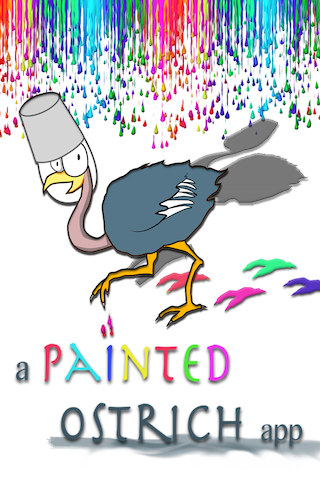
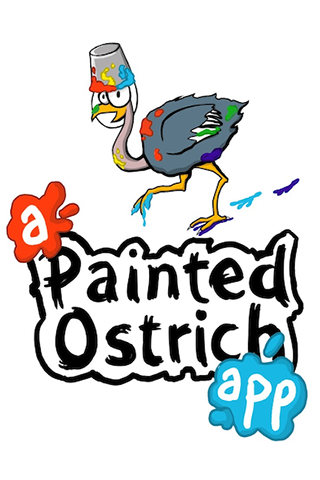
new splash screen.  ver 1.0.3 in store

diff --git a/MappMe/DebugLog.m b/MappMe/DebugLog.m
@@ -27,6 +27,5 @@ void _DebugLog(const char *file, int lineNumber, const char *funcName, NSString 
 	} else {
 		fprintf(stderr,"%p/%s (%s:%d) %s",[NSThread currentThread],funcName,[fileName UTF8String],lineNumber,[body UTF8String]);
 	}
-//	[body release];	
 }
 
